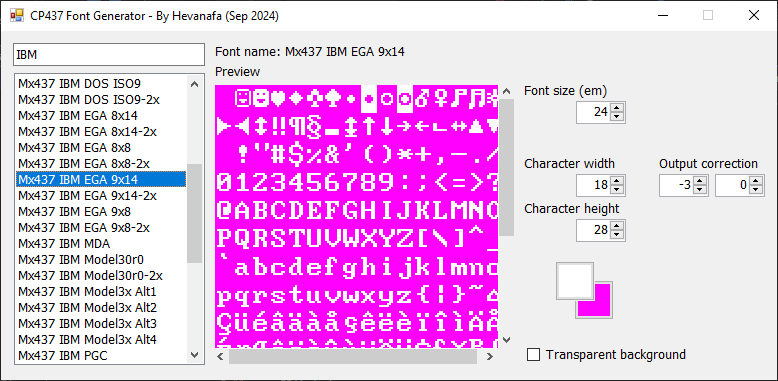
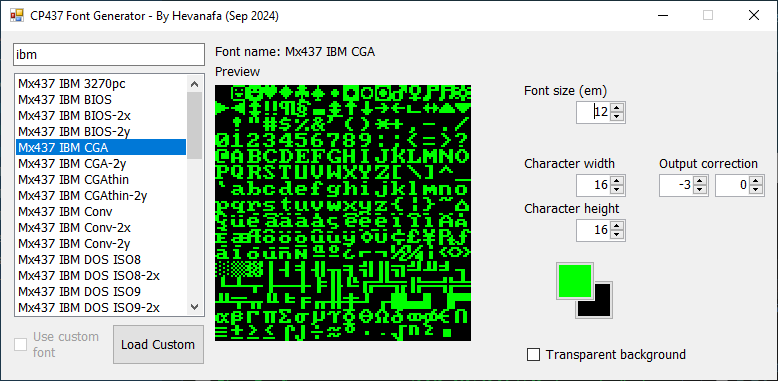
added the new preview

diff --git a/readme.md b/readme.md
@@ -3,3 +3,5 @@
 TrueType to bitmap font generator (usually used in Dwarf Fortress).
 
 ![Preview](./preview.png)
+
+This project requires .NET Framework version 4.8.1.
